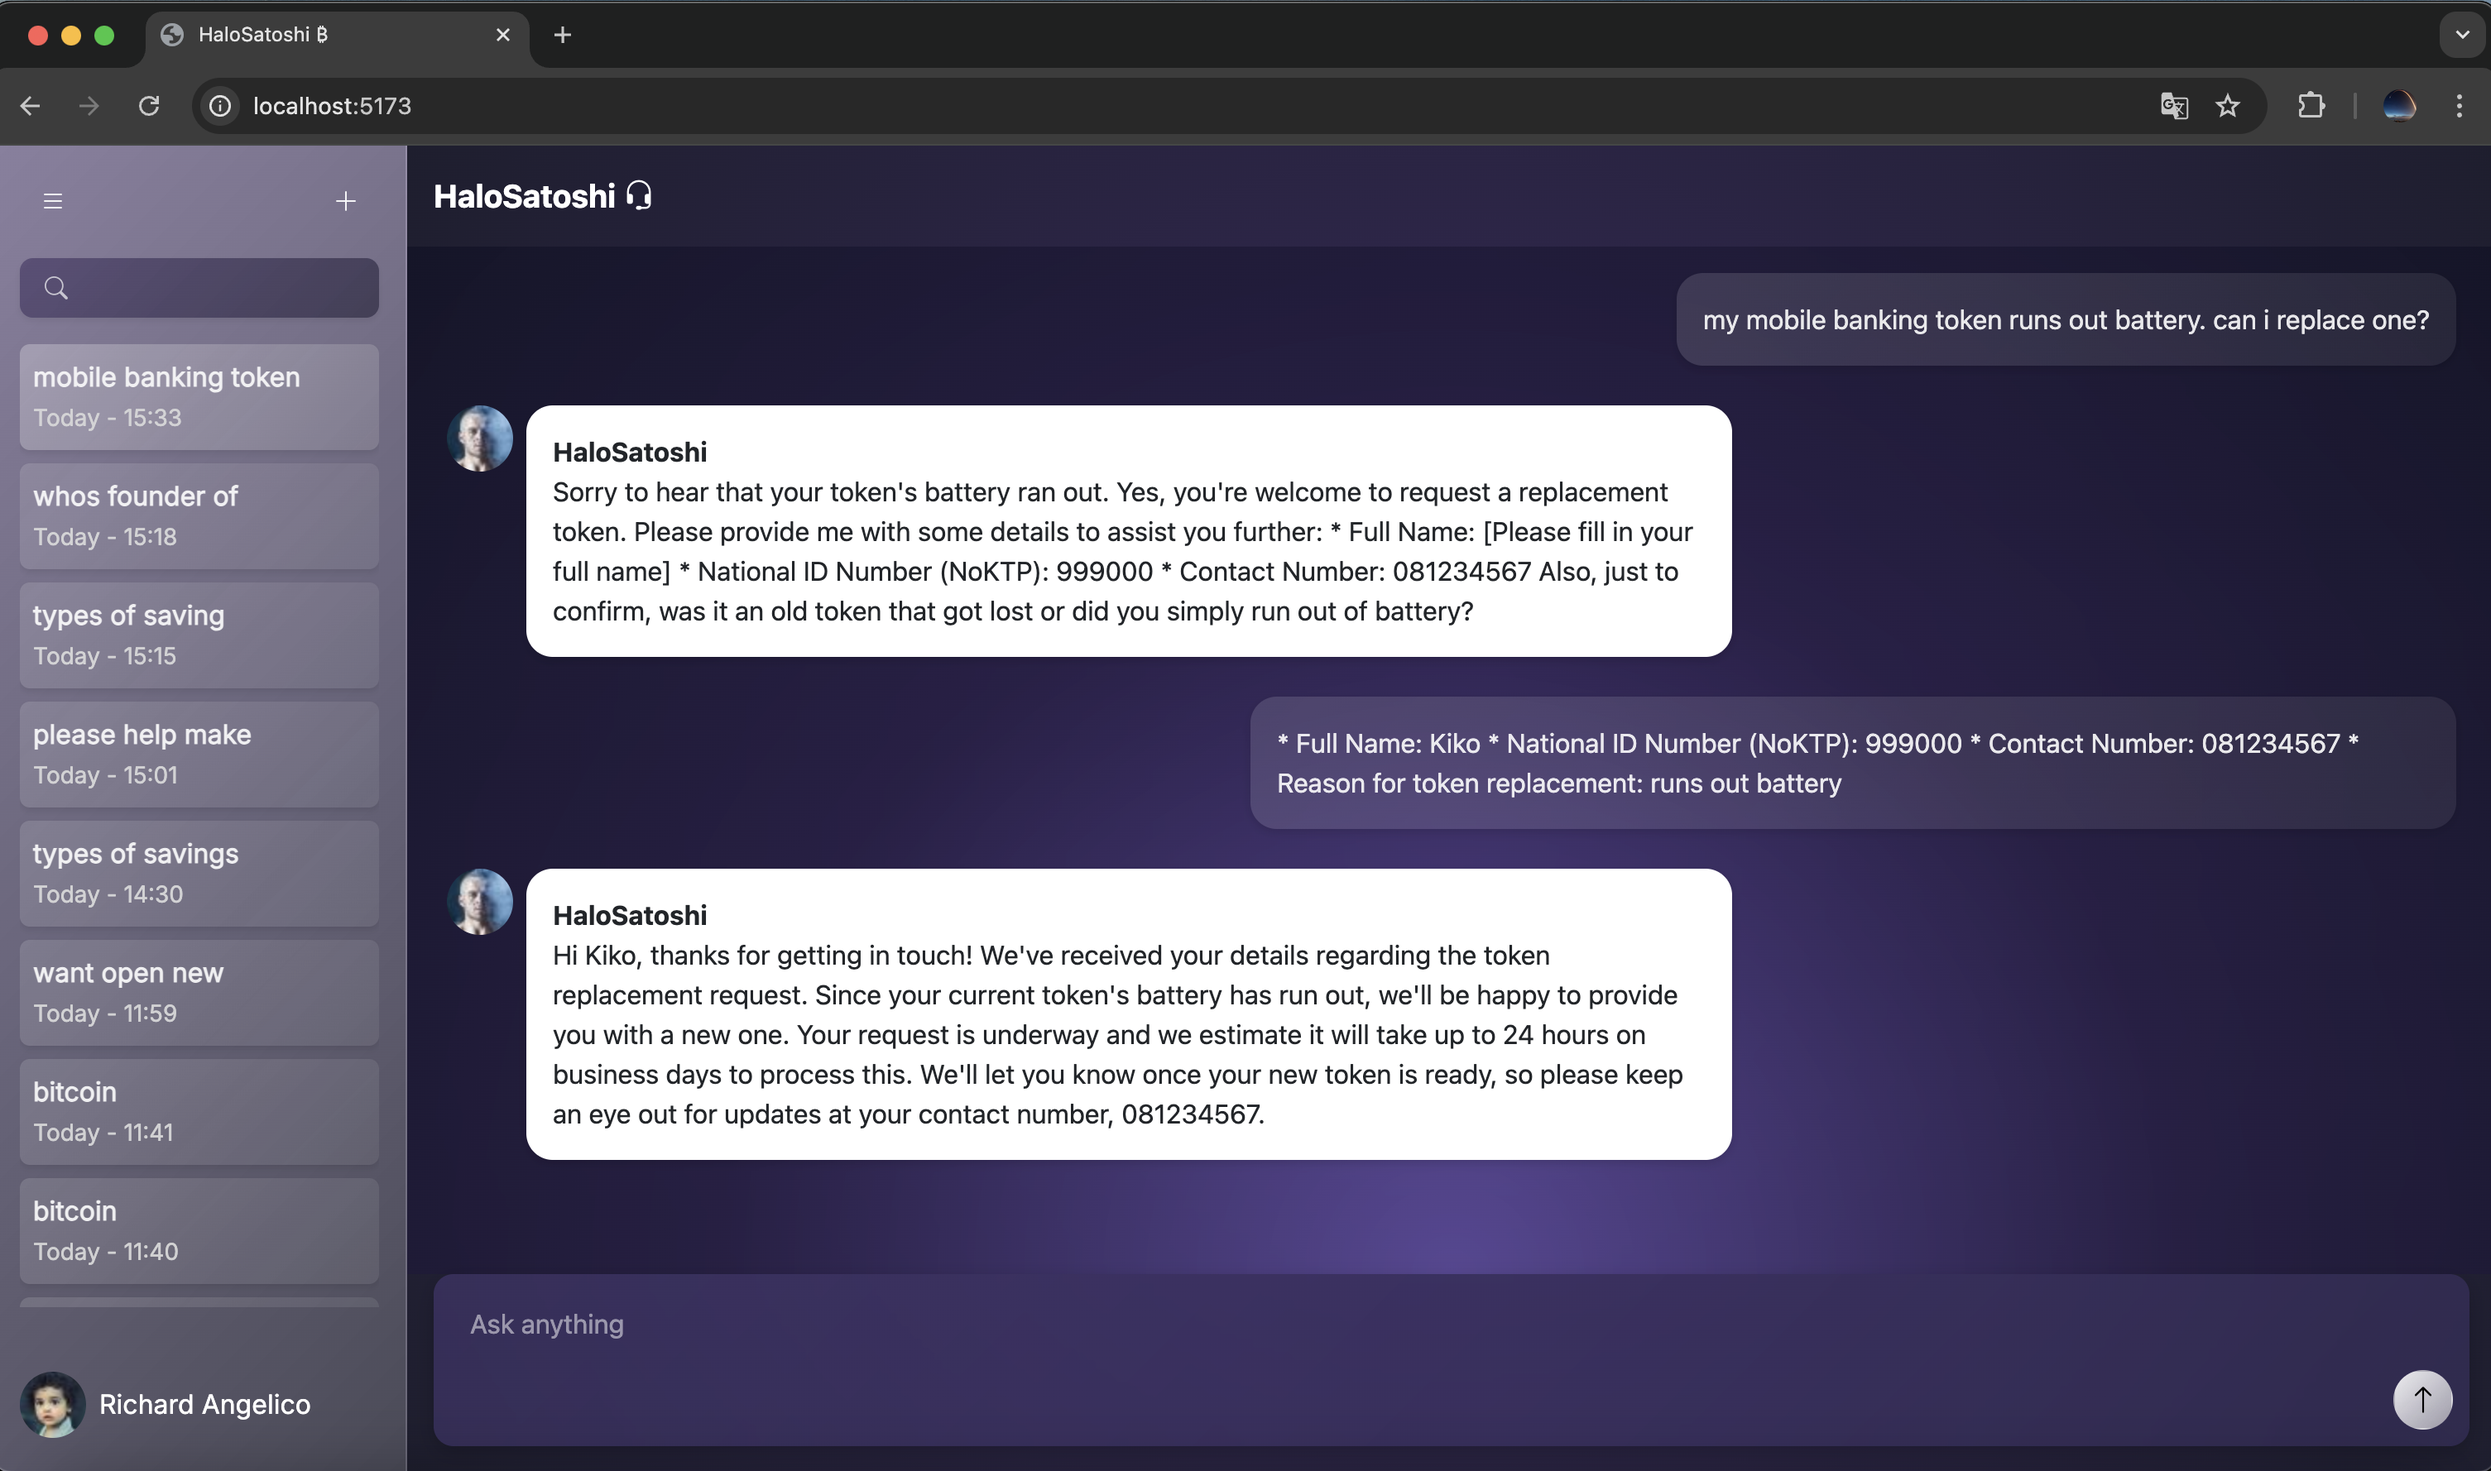
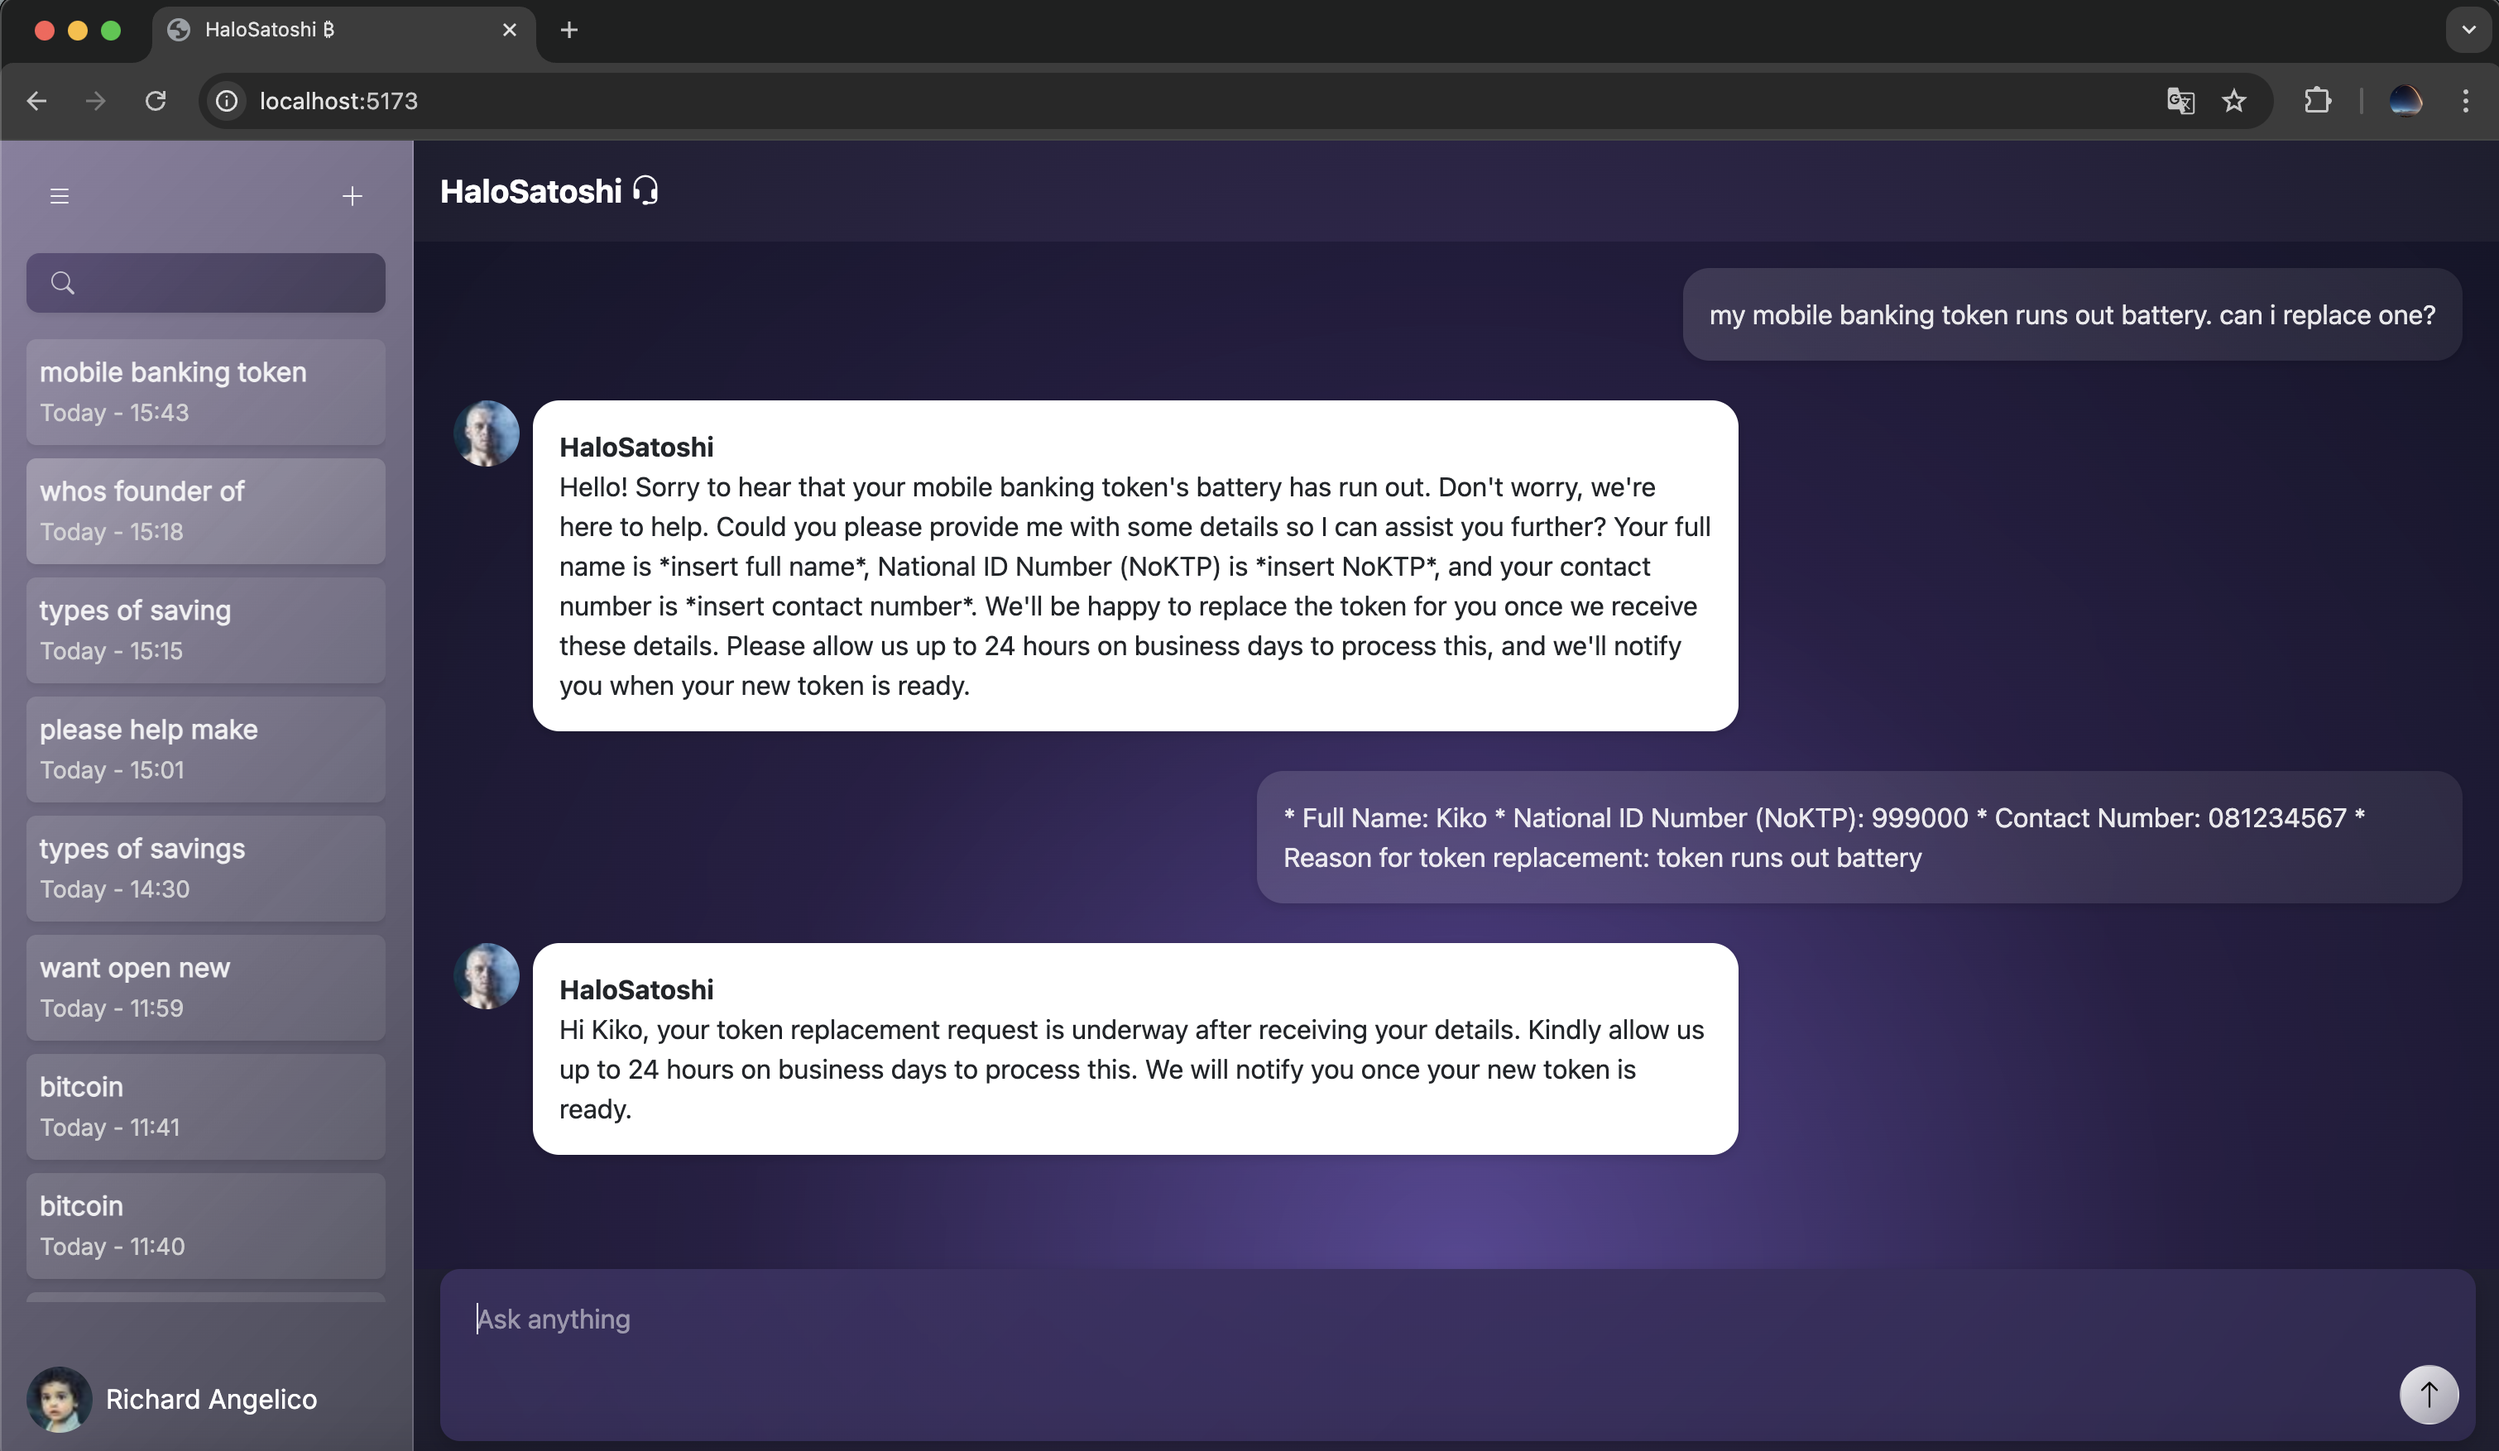
[UPDATE]

diff --git a/readme.md b/readme.md
@@ -51,7 +51,7 @@ The idea for **HaloSatoshi** stemmed from frustration with the inefficiencies of
 ![Ask General Information](https://github.com/angelalim88/Satoshi-Bank-ChatBot/blob/main/images/ask_general_info1.png)
 
 ## Mobile Banking Token Replacement
-![Mobile Banking Token Replacement](https://github.com/angelalim88/Satoshi-Bank-ChatBot/blob/main/images/token_replacement.png)
+![Mobile Banking Token Replacement](https://github.com/angelalim88/Satoshi-Bank-ChatBot/blob/main/images/token_replacement2.png)
 
 ## Wrong Transfer Report
 ![Wrong Transfer Report](https://github.com/angelalim88/Satoshi-Bank-ChatBot/blob/main/images/wrong_transfer.png)
